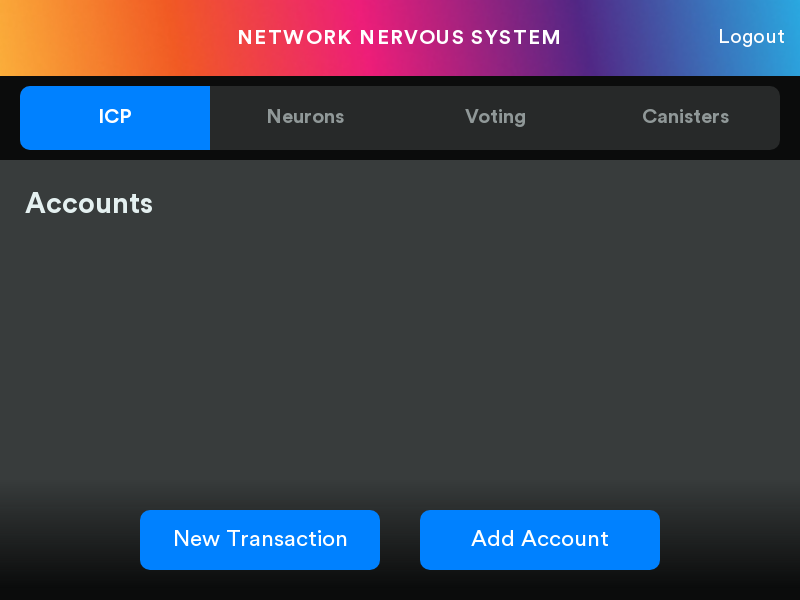
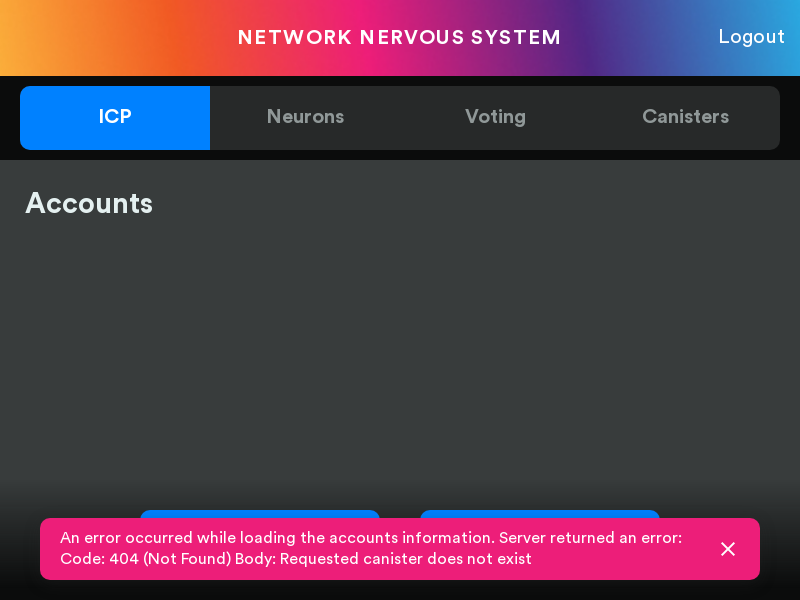
feat: query and update calls to sync accounts (#607)
# Motivation

We want to use query and update calls to sync the accounts as well in order to improve the performances.

# Changes

- use `queryAndUpdate` to `syncAccounts`

Changed region(s): [[0.0312, 0.84, 0.9688, 0.99]]

diff --git a/frontend/svelte/src/lib/services/accounts.services.ts b/frontend/svelte/src/lib/services/accounts.services.ts
@@ -2,6 +2,9 @@ import type { Identity } from "@dfinity/agent";
 import { createSubAccount, loadAccounts } from "../api/accounts.api";
 import type { AccountsStore } from "../stores/accounts.store";
 import { accountsStore } from "../stores/accounts.store";
+import { toastsStore } from "../stores/toasts.store";
+import { queryAndUpdate } from "../utils/api.utils";
+import { errorToString } from "../utils/error.utils";
 
 /**
  * - sync: load the account data using the ledger and the nns dapp canister itself
@@ -16,8 +19,26 @@ export const syncAccounts = async ({
     throw new Error("No identity");
   }
 
-  const accounts: AccountsStore = await loadAccounts({ identity });
-  accountsStore.set(accounts);
+  return queryAndUpdate<AccountsStore, unknown>({
+    request: ({ certified }) => loadAccounts({ identity, certified }),
+    onLoad: ({ response: accounts }) => accountsStore.set(accounts),
+    onError: ({ error, certified }) => {
+      console.error(error);
+
+      if (certified !== true) {
+        return;
+      }
+
+      // Explicitly handle only UPDATE errors
+      accountsStore.reset();
+
+      toastsStore.show({
+        labelKey: "error.accounts_not_found",
+        level: "error",
+        detail: errorToString(error),
+      });
+    },
+  });
 };
 
 export const addSubAccount = async ({

diff --git a/frontend/svelte/src/tests/lib/stores/accounts.store.spec.ts b/frontend/svelte/src/tests/lib/stores/accounts.store.spec.ts
@@ -1,14 +1,32 @@
 import { get } from "svelte/store";
 import type { AccountsStore } from "../../../lib/stores/accounts.store";
-import { initAccountsStore } from "../../../lib/stores/accounts.store";
+import { accountsStore } from "../../../lib/stores/accounts.store";
+import { mockMainAccount } from "../../mocks/accounts.store.mock";
 
 describe("accountsStore", () => {
-  it("initializes to undefined", () => {
-    const store = initAccountsStore();
-
-    const initState: AccountsStore = get(store);
+  const expectStoreInitialValues = () => {
+    const initState: AccountsStore = get(accountsStore);
 
     expect(initState.main).toBeUndefined();
     expect(initState.subAccounts).toBeUndefined();
+  };
+
+  it("initializes to undefined", () => {
+    expectStoreInitialValues();
+  });
+
+  it("should set main account", () => {
+    accountsStore.set({ main: mockMainAccount, subAccounts: [] });
+
+    const { main } = get(accountsStore);
+    expect(main).toEqual(mockMainAccount);
+  });
+
+  it("should reset account store", () => {
+    accountsStore.set({ main: mockMainAccount, subAccounts: [] });
+
+    accountsStore.reset();
+
+    expectStoreInitialValues();
   });
 });

diff --git a/frontend/svelte/src/lib/api/accounts.api.ts b/frontend/svelte/src/lib/api/accounts.api.ts
@@ -16,8 +16,10 @@ import { createAgent } from "../utils/agent.utils";
 
 export const loadAccounts = async ({
   identity,
+  certified,
 }: {
   identity: Identity;
+  certified: boolean;
 }): Promise<AccountsStore> => {
   const agent = await createAgent({ identity, host: identityServiceURL });
   // ACCOUNTS
@@ -30,7 +32,7 @@ export const loadAccounts = async ({
   // https://github.com/dfinity/nns-dapp/blob/main/rs/src/accounts_store.rs#L232
   await nnsDapp.addAccount();
 
-  const mainAccount: AccountDetails = await nnsDapp.getAccount();
+  const mainAccount: AccountDetails = await nnsDapp.getAccount({ certified });
 
   // ACCOUNT BALANCES
   const ledger: LedgerCanister = LedgerCanister.create({
@@ -43,7 +45,7 @@ export const loadAccounts = async ({
   ): Promise<Account> => {
     const balance: ICP = await ledger.accountBalance({
       accountIdentifier: AccountIdentifier.fromHex(account.account_identifier),
-      certified: true,
+      certified,
     });
     return {
       identifier: account.account_identifier,

diff --git a/frontend/svelte/src/lib/canisters/nns-dapp/nns-dapp.canister.ts b/frontend/svelte/src/lib/canisters/nns-dapp/nns-dapp.canister.ts
@@ -62,8 +62,14 @@ export class NNSDappCanister {
    *
    * @returns Promise<void>
    */
-  public getAccount = async (): Promise<AccountDetails> => {
-    const { AccountNotFound, Ok } = await this.certifiedService.get_account();
+  public getAccount = async ({
+    certified,
+  }: {
+    certified: boolean;
+  }): Promise<AccountDetails> => {
+    const { AccountNotFound, Ok } = await this.getNNSDappService(
+      certified
+    ).get_account();
     if (AccountNotFound === null) {
       throw new AccountNotFoundError("Error creating subAccount");
     }
@@ -124,10 +130,10 @@ export class NNSDappCanister {
   }: {
     certified: boolean;
   }): Promise<CanisterDetails[]> => {
-    return this.serviceCaller(certified).get_canisters();
+    return this.getNNSDappService(certified).get_canisters();
   };
 
-  private serviceCaller(certified = true): NNSDappService {
+  private getNNSDappService(certified = true): NNSDappService {
     if (certified) {
       return this.certifiedService;
     }

diff --git a/frontend/svelte/src/tests/lib/api/accounts.api.spec.ts b/frontend/svelte/src/tests/lib/api/accounts.api.spec.ts
@@ -23,7 +23,7 @@ describe("accounts-api", () => {
     nnsDappMock.getAccount.mockResolvedValue(mockAccountDetails);
     jest.spyOn(NNSDappCanister, "create").mockImplementation(() => nnsDappMock);
 
-    await loadAccounts({ identity: mockIdentity });
+    await loadAccounts({ identity: mockIdentity, certified: true });
 
     expect(ledgerMock.accountBalance).toBeCalled();
     expect(nnsDappMock.getAccount).toBeCalled();
@@ -47,7 +47,7 @@ describe("accounts-api", () => {
     nnsDappMock.getAccount.mockResolvedValue(accountDetails);
     jest.spyOn(NNSDappCanister, "create").mockImplementation(() => nnsDappMock);
 
-    await loadAccounts({ identity: mockIdentity });
+    await loadAccounts({ identity: mockIdentity, certified: true });
 
     // Called once for main, another for the subaccount = 2
     expect(ledgerMock.accountBalance).toBeCalledTimes(2);

diff --git a/frontend/svelte/src/tests/App.spec.ts b/frontend/svelte/src/tests/App.spec.ts
@@ -56,16 +56,25 @@ describe("App", () => {
       identity: mockIdentity,
     });
 
+    // query + update calls
+    const numberOfCalls = 2;
+
     await waitFor(() =>
-      expect(mockNNSDappCanister.addAccount).toHaveBeenCalledTimes(1)
+      expect(mockNNSDappCanister.addAccount).toHaveBeenCalledTimes(
+        numberOfCalls
+      )
     );
 
     await waitFor(() =>
-      expect(mockNNSDappCanister.getAccount).toHaveBeenCalledTimes(1)
+      expect(mockNNSDappCanister.getAccount).toHaveBeenCalledTimes(
+        numberOfCalls
+      )
     );
 
     await waitFor(() =>
-      expect(mockLedgerCanister.accountBalance).toHaveBeenCalledTimes(1)
+      expect(mockLedgerCanister.accountBalance).toHaveBeenCalledTimes(
+        numberOfCalls
+      )
     );
   });
 

diff --git a/frontend/svelte/src/tests/lib/canisters/nns-dapp.canister.spec.ts b/frontend/svelte/src/tests/lib/canisters/nns-dapp.canister.spec.ts
@@ -57,7 +57,7 @@ describe("NNSDapp", () => {
 
       const nnsDapp = await createNnsDapp(service);
 
-      const res = await nnsDapp.getAccount();
+      const res = await nnsDapp.getAccount({ certified: true });
 
       expect(res).toEqual(mockAccountDetails);
     });
@@ -71,7 +71,7 @@ describe("NNSDapp", () => {
 
       const nnsDapp = await createNnsDapp(service);
 
-      const call = async () => nnsDapp.getAccount();
+      const call = async () => nnsDapp.getAccount({ certified: true });
 
       await expect(call).rejects.toThrow(AccountNotFoundError);
     });

diff --git a/frontend/svelte/src/lib/stores/accounts.store.ts b/frontend/svelte/src/lib/stores/accounts.store.ts
@@ -10,14 +10,18 @@ export interface AccountsStore {
  * A store that contains the account information.
  */
 export const initAccountsStore = () => {
-  const { subscribe, set } = writable<AccountsStore>({
+  const initialAccounts: AccountsStore = {
     main: undefined,
     subAccounts: undefined,
-  });
+  };
+
+  const { subscribe, set } = writable<AccountsStore>(initialAccounts);
 
   return {
     subscribe,
     set,
+
+    reset: () => set(initialAccounts),
   };
 };
 

diff --git a/frontend/svelte/src/lib/types/i18n.d.ts b/frontend/svelte/src/lib/types/i18n.d.ts
@@ -33,6 +33,7 @@ interface I18nError {
   add_followee: string;
   remove_followee: string;
   followee_does_not_exist: string;
+  accounts_not_found: string;
 }
 
 interface I18nWarning {

diff --git a/frontend/svelte/src/App.svelte b/frontend/svelte/src/App.svelte
@@ -34,7 +34,6 @@
         return;
       }
 
-      // TODO: L2-316 Manage errors
       await syncAccounts(auth);
     }
   );
